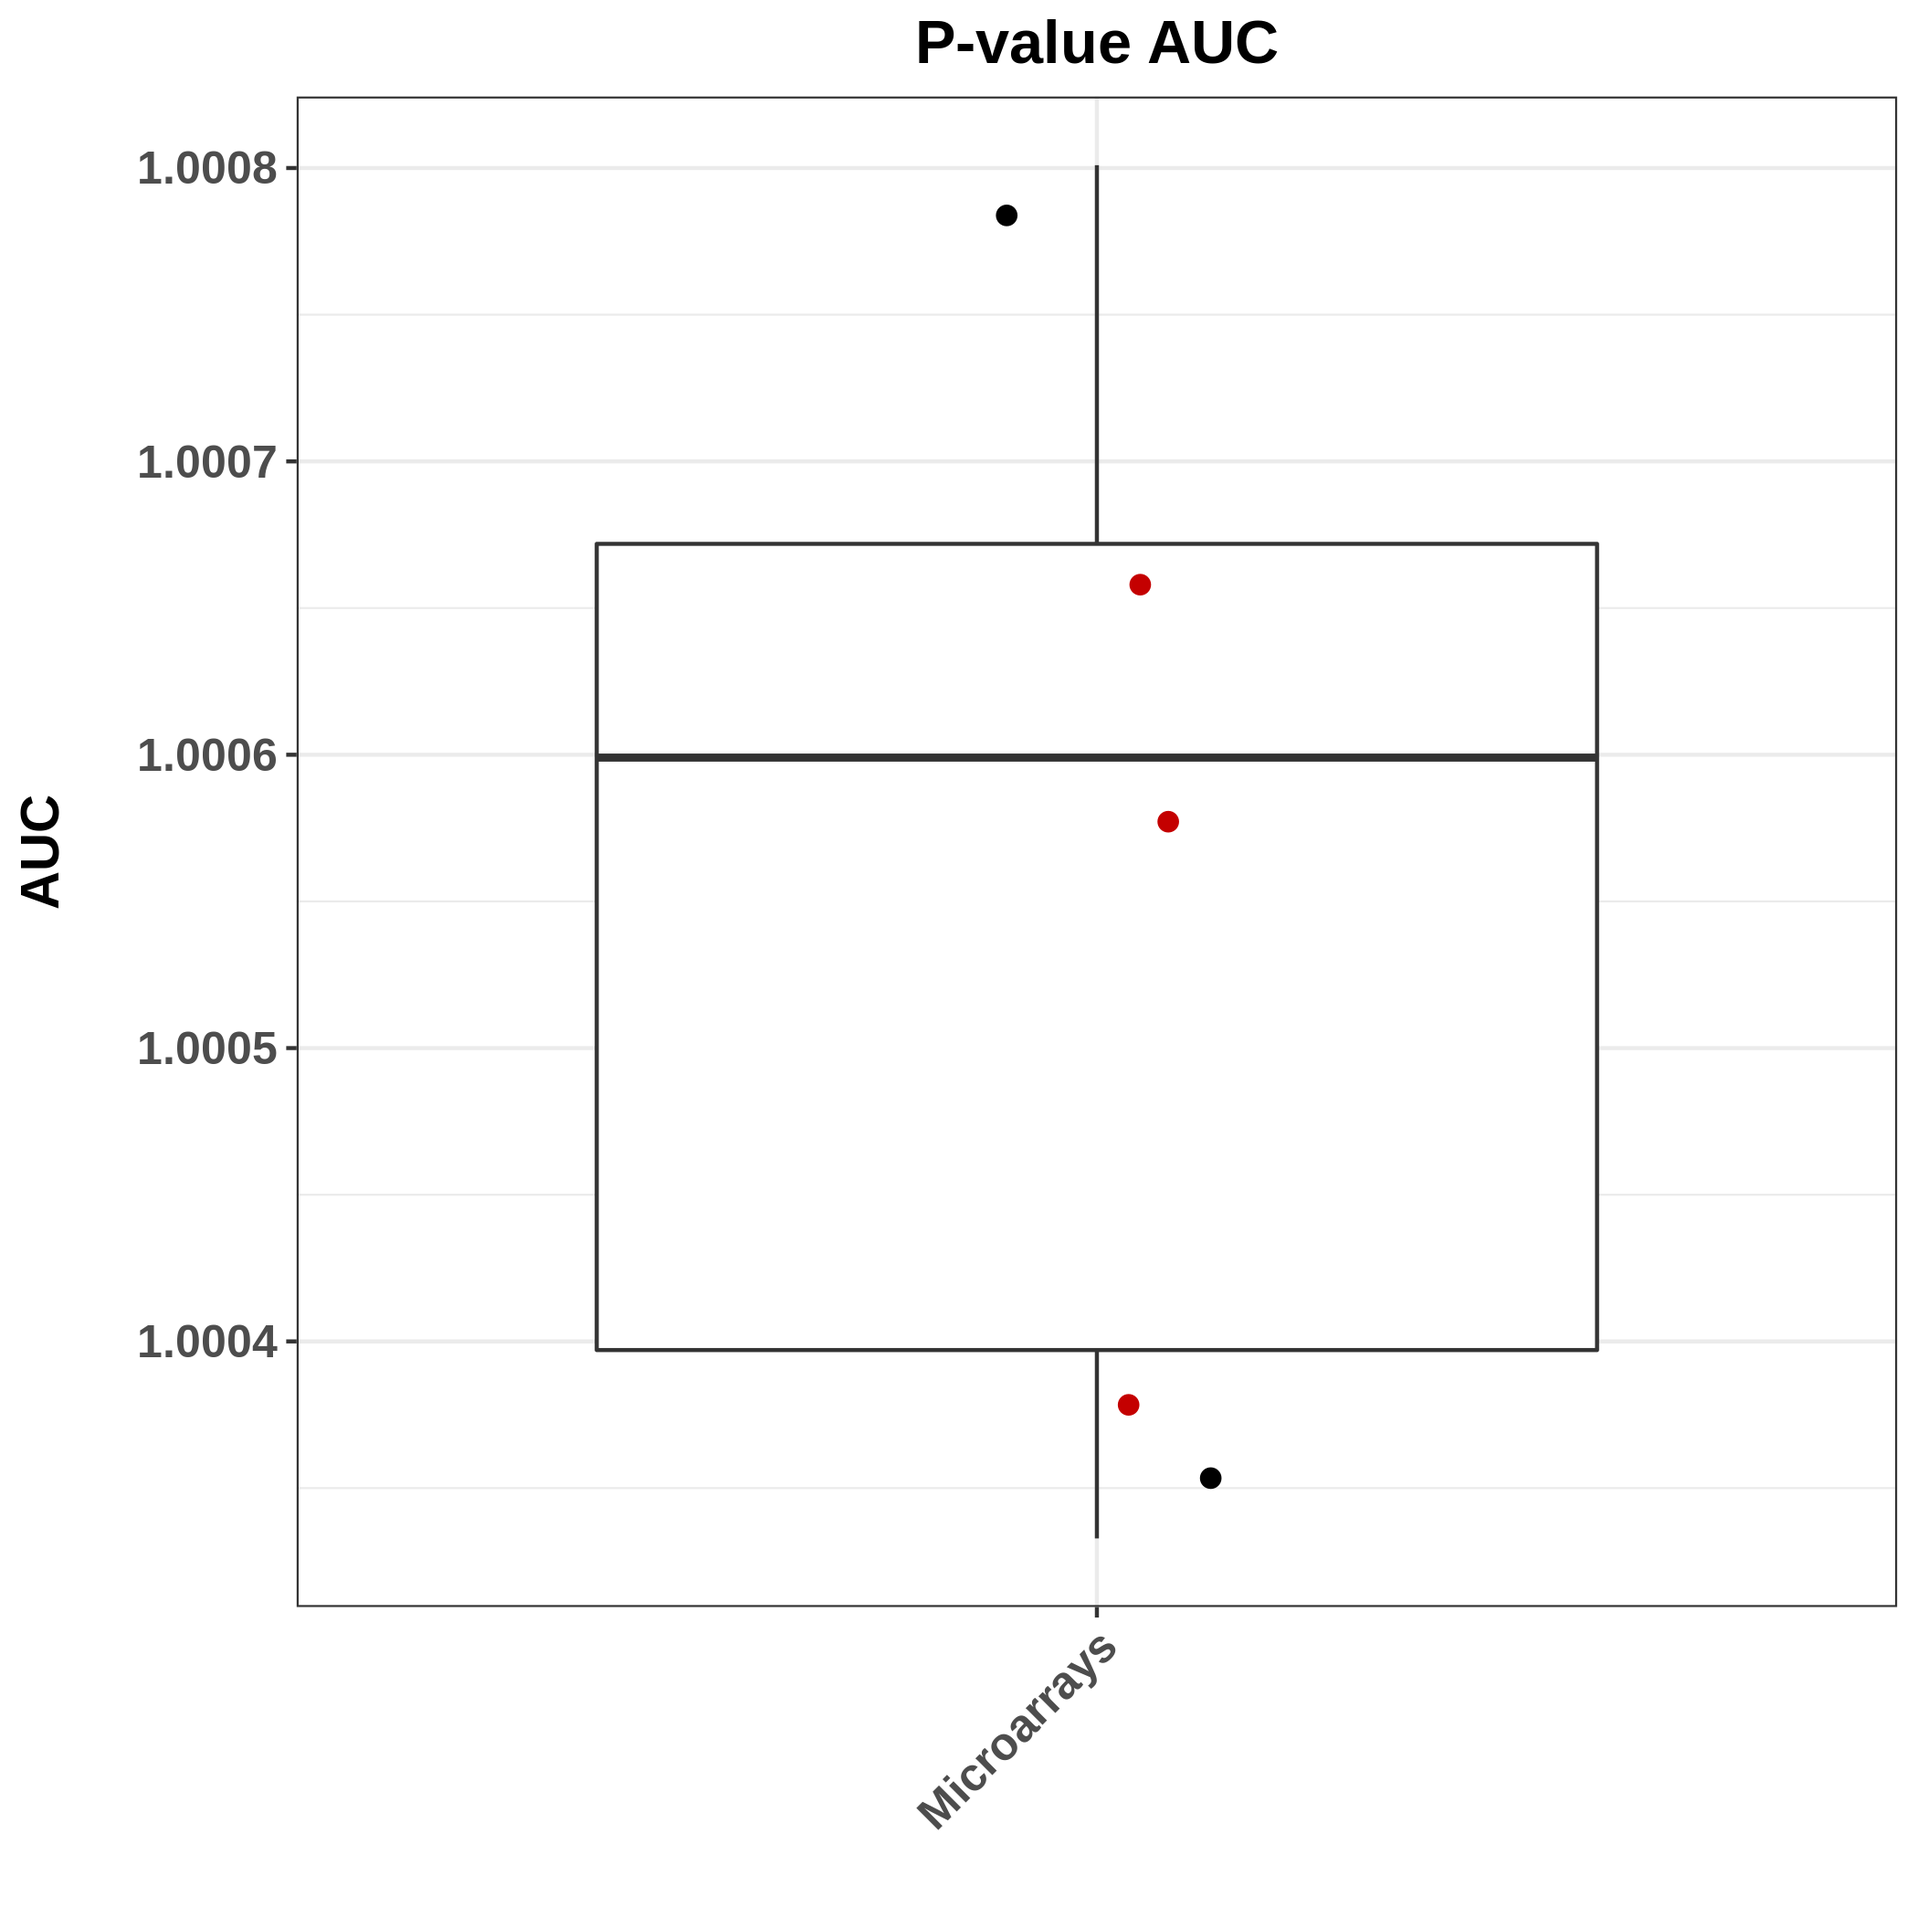
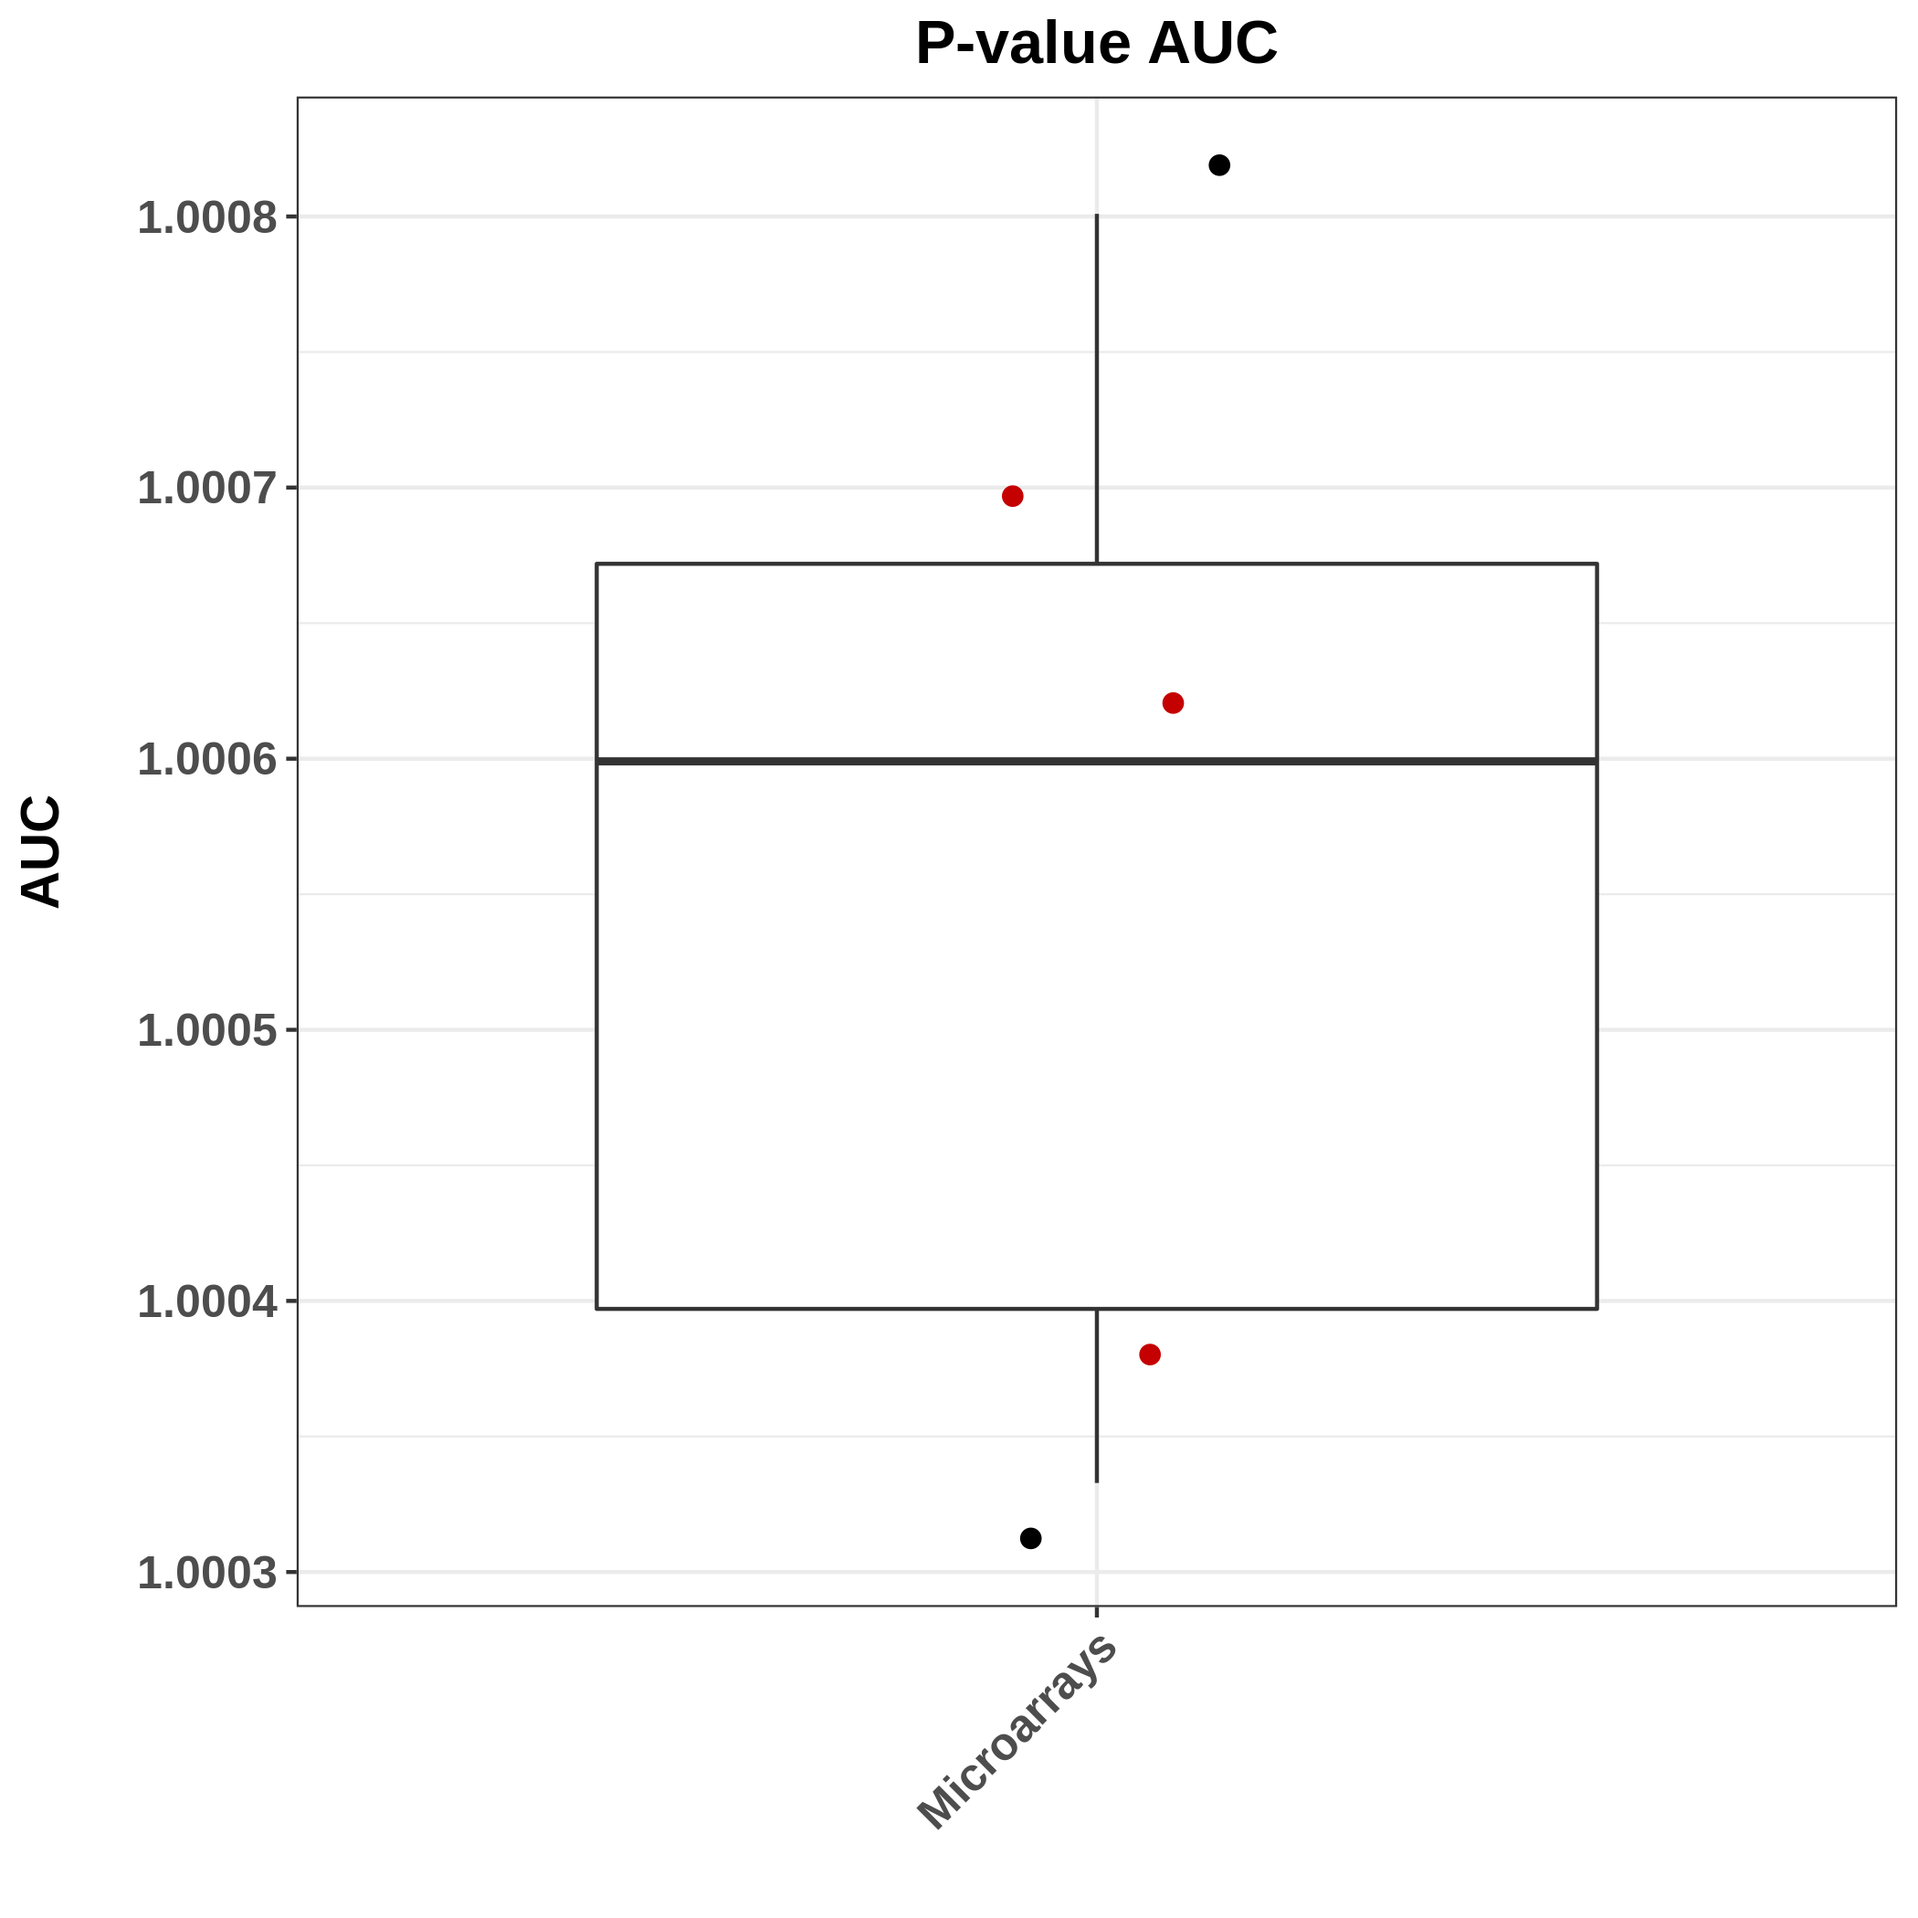
Non-coding arrays benchmarking added

diff --git a/www/benchBackNonCoding.md b/www/benchBackNonCoding.md
@@ -1,0 +1,65 @@
+#### Non-coding microarray datasets benchmarking
+
+In this tab we **visually** present the **process** followed for the benchmarking of all **non-coding microarray datasets** along with the respective **per metric boxplots**. At the **end** of this **tab**, the user can also **analytically interrogate** the stars assigned to each dataset/comparison.
+
+##### Benchmarking pipeline
+
+<a href= "benchBackstage/nonCoding/bench_nonCoding_Pipeline.png" target="_blank" rel='noopener noreferrer'> 
+	<img src= "./benchBackstage/nonCoding/bench_nonCoding_Pipeline.png" alt="image" style="width:400px;height:400px" class="center">
+</a>
+
+##### Fibrotic genes expression
+
+_In this metric we count **how many of each dataset's DEGs** have been **previously reported as profibrotic**. (Dataset's DE orientation must match to this reported in literature for a gene to be counted.) The genes assessed were those reported by **Vukmirovic et al. 2018**, along with **some already known**. In the case of **mouse datasets**, the **homologues** to human genes (as defined into Ensembl) were used._
+
+This metric was **not** used for non-coding datasets, as all used fibrotic genes are protein-coding.
+
+##### Detected genes 
+
+In this metric we calculate how many genes were **detected** per dataset/comparison.
+
+<a href= "benchBackstage/nonCoding/detPlot_nonCoding.png" target="_blank" rel='noopener noreferrer'> 
+	<img src= "./benchBackstage/nonCoding/detPlot_nonCoding.png" alt="image" style="width:500px;height:500px" class="center">
+</a>
+
+##### Differentially expressed genes (DEGs)
+
+For this metric we calculate DEGs found in each dataset/comparison (DEA thresholds: 1.2 FC; 0.05 FDR).
+
+<a href= "benchBackstage/nonCoding/degPlot_nonCoding.png" target="_blank" rel='noopener noreferrer'> 
+	<img src= "./benchBackstage/nonCoding/degPlot_nonCoding.png" alt="image" style="width:500px;height:500px" class="center">
+</a>
+
+##### Up/Down DEGs ratio
+
+Up/Down DEGs ratio metric is based on the distribution of up-regulated to down-regulated genes found in each dataset/comparison. (Ratio=1 signifies an even participation of Up and Down regulated genes.)
+
+<a href= "benchBackstage/nonCoding/ratioPlot_nonCoding.png" target="_blank" rel='noopener noreferrer'> 
+	<img src= "./benchBackstage/nonCoding/ratioPlot_nonCoding.png" alt="image" style="width:500px;height:500px" class="center">
+</a>
+
+##### FC bins
+
+The following boxplots depict the proportions of DEGs found in three bins of **absolute FC** values for each Fibromine dataset/comparison where DEGs were found. (Low: 1.2-2, Intermediate= 2-5, High= >5)
+
+In order to assign a star based on this metric to a dataset/comparison, a **two steps procedure** is followed:
+
+1. Each dataset/comparison gets from 0 to 3 stars according to its position at the distribution of **each one** of the \|FC\| bins 
+2. The aforementioned stars are **summarized** into a consensus star assigned to each dataset/comparison if the latter has collected **2/3** of the individual stars
+
+	<a href= "benchBackstage/nonCoding/fcBinPlot_nonCoding.png" target="_blank" rel='noopener noreferrer'> 
+		<img src= "./benchBackstage/nonCoding/fcBinPlot_nonCoding.png" alt="image" style="width:500px;height:500px" class= "center">
+	</a>
+
+##### P-value distribution Area Under the Curve
+
+<a href= "benchBackstage/nonCoding/pAucPlot_nonCoding.png" target="_blank" rel='noopener noreferrer'> 
+	<img src= "./benchBackstage/nonCoding/pAucPlot_nonCoding.png" alt="image" style="width:500px;height:500px" class="center">
+</a>
+
+
+##### Adjusted p-value distribution Area Under the Curve
+
+<a href= "benchBackstage/nonCoding/adjpAucPlot_nonCoding.png" target="_blank" rel='noopener noreferrer'> 
+	<img src= "./benchBackstage/nonCoding/adjpAucPlot_nonCoding.png" alt="image" style="width:500px;height:500px" class="center">
+</a>
